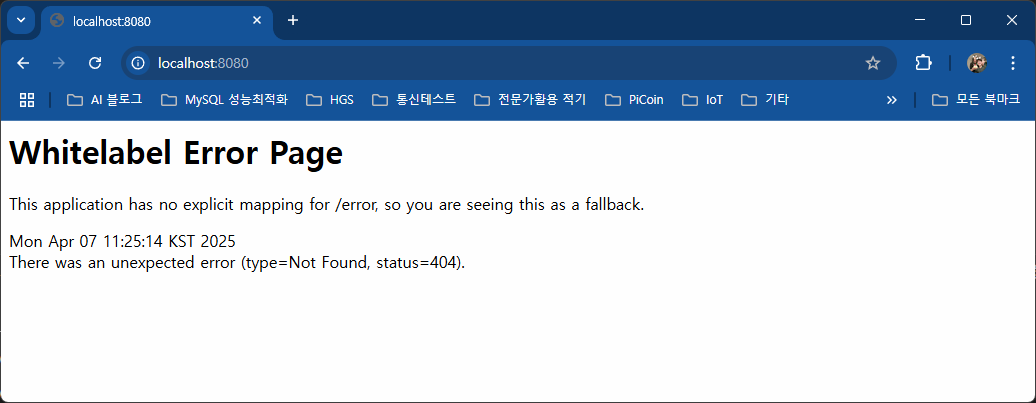
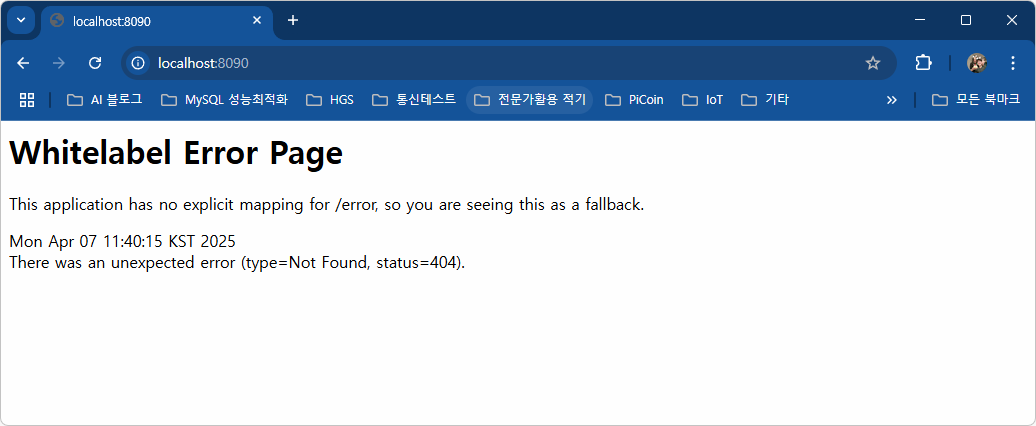
5일차 커밋

diff --git a/day05/spring03/src/main/resources/static/index.html b/day05/spring03/src/main/resources/static/index.html
@@ -1,0 +1,11 @@
+<!DOCTYPE html>
+<html lang="en">
+<head>
+    <meta charset="UTF-8">
+    <meta name="viewport" content="width=device-width, initial-scale=1.0">
+    <title>Hello SpringBoot!</title>
+</head>
+<body>
+    <h1>첫 페이지입니다</h1>
+</body>
+</html>

diff --git a/day05/spring03/src/main/java/com/pmj/spring03/controller/HelloController.java b/day05/spring03/src/main/java/com/pmj/spring03/controller/HelloController.java
@@ -1,0 +1,28 @@
+package com.pmj.spring03.controller;
+
+import org.slf4j.Logger;
+import org.slf4j.LoggerFactory;
+import org.springframework.stereotype.Controller;
+import org.springframework.web.bind.annotation.GetMapping;
+import org.springframework.web.bind.annotation.ResponseBody;
+
+@Controller // 'SpringBoot에서 컨트롤러로 동작할거야'라고 지칭해주는 주석(어노테이션)
+public class HelloController {
+
+    private final Logger logger = LoggerFactory.getLogger(this.getClass());
+
+    @GetMapping("/hello") // 웹서비스에서 사용할 길을 하나 만들거야. 그 길 이름이 /hello
+    @ResponseBody
+    public String helloSpring(){
+        logger.info("hello URL 오픈!");
+        // 문제발생시 로그를 남길때
+        logger.debug("디버그시 필요한 로그입니다");
+        logger.trace("디버그시 필요한 로그");
+
+        logger.warn("경고 표시시 나타내는 로그입니다다");
+        logger.error("오류표시 나타내는 로그입니다.");
+        
+        return "Hello SpringBoot";
+    }
+
+}

diff --git a/README.md b/README.md
@@ -285,5 +285,114 @@
     - 저장위치 선택
     - **새 창 열기** - Spring Boot 프로젝트가 루트폴더가 된 개발환경
 
+-  기본설정
+    - application.properties에 `spring.output.ansi.enabled=always` 추가
+
+- 포트번호
+    |프로토콜|포트번호|비고|
+    |:---|---:|:---|
+    |HTTP|80|웹 서버, 서비스 포트(보안취약)|
+    |HTTPS|443|SSL를 적용한 웹 서버, 서비스(보안강화)|
+    |FTP|21|웹을 통한 파일전송|
+    |TELNET|23|원격서버접속 서비스|
+    |SSH|22|보안 강화된 TELNET|
+    |SMTP|25|메일 전송서비스|
+
+- 개발용포트
+    - 포트는 중복안됨
+    - 8080포트를 사용하고 있으면 다른 포트로 변경해야함!
+    - 포트 변경 시 application.properties에 `server.port=8090` 추가
+
+- 웹브라우저 열기
+    - http://localhost:8090/ 오픈
+
+    <img src="./image/sb0006.png" width="700">
+
+- 접속위치 요청 처리
+    - 컨트롤러 생성
+        - HelloController 클래스 생성
+        - http://localhost:8090/hello
+
+    - 각 기능별로 패키지를 구분
+        - Controller, model 등
+
+- Log-back
+    - 스프링부트에 내장된 로그 모듈
+
+    - application.properties 내 로그 설정
+
+    ```groovy
+    logging.level.root = info
+    logging.file.name = /logtest.log
+    ```
+
+    ```java
+    // 클래스 내 작성성
+    private final Logger logger = LoggerFactory.getLogger(this.getClass());
+
+    // 메서드 내 사용
+    logger.info("hello URL 오픈!");
+    // 문제발생시 로그를 남길때
+    logger.debug("디버그시 필요한 로그입니다");
+    logger.trace("디버그시 필요한 로그");
+
+    logger.warn("경고 표시시 나타내는 로그입니다다");
+    logger.error("오류표시 나타내는 로그입니다.");
+    
+    ```
+- Log4J2 외부모듈 사용 권장
+
+### 스프링부트 배너(중요도없음)
+- resources 폴더에 banner.txt 생성
+- 내용 추가
+- [Spring Boot Banner Generator](https://devops.datenkollektiv.de/banner.txt/index.html)
+- 배너제너레이터로 생성한 글자 복사 banner.txt 붙여넣기
+- 서버 재시작
+- https://www.asciiart.eu/
+- https://www.baeldung.com/spring-boot-color-banner
+
+<img src="./image/sb0009.png" width="700">
+
+### 메인페이지 추가
+- resources/static/index.html 부터 시작
+
+### 스프링부트 프로젝트 구조
+<img src="./image/sb0010.png" width="300">
+
+- 각 폴더 구조
+    - .gradle ~ gradle : 그레이들, VSCode, 빌드 등에 필요한 폴더(설명필요X)
+    - `src/main/java` : 패키지와 자바 소스가 저장되는 위치
+    - com.hugo83.spring03 : 패키지. 폴더로 구성
+        - HelloController 클래스에 접근하려면
+        - com.hugo83.spring03.controller.HelloController 접근해야 함
+    - Spring03Application.java : 시작프로그램
+    - src/main/resources : 자바파일 이외 HTML, CSS, JS, 환경파일 등 리소스파일 저장되는 위치
+        - `static` : CSS, JS, 이미지 파일 저장되는 곳
+        - `templates` : 스프링부트와 연계되는 HTML 파일 저장되는 곳
+        - `application.properties` : 프로젝트 환경설정 파일. 환경변수, DB 설정
+    - src/test/java : JUnit 스프링부트 테스트도구 자바파링 저장되는 위치
+    - `build.gradle` : 그레이들 환경 파일. Groovy 기반으로 한 빌드도구. dependencies 만 잘 구성하면 됨
+    - gradlew.bat : 중간에 직접 그레이들 빌드를 할때 사용하는 배치파일.
+    - settings.gradle : 고급 그레이들 설정. 손댈일 없음
+
+### 스프링부트 어노테이션
+
+#### @SpringBootApplication
+- 스프링부트 자동구성 매커니즘 활성화
+- 어플리케이션 내 패키지에서 컴포넌트들 스캐닝
+- 설정 클래스 임포트해서 활성화, 스프링부트 실행
+
+#### @Controller
+- 컴포넌트 구체화해서 해당 클래스 IoC컨테이너 Bean으로 등록
+
+#### @GetMapping
+- Get, Post 중 Get(URL)으로 들어오는 주소를 매핑. 처리해주는 역할
+- @PostMapping, @RequestMapping 등 파악
+
+#### @ResponseBody
+- HTTP 요청의 자바객체가 처리한 body 내용을 매핑하는 역할
+- 자바의 String 문자열을 웹페이지에 렌더링.
+
+
 ## 6일차(06/26)
 

diff --git a/JAVA_BASIC.md b/JAVA_BASIC.md
@@ -553,3 +553,26 @@ public static void main(String[] args){
 - 파일읽기에 `FileInputStream`, `BufferedReader` 클래스 사용
 
 - [JAVA문법실습](./day05/spring02/src/main/java/com/pmj/spring02/Spring02Application.java)
+
+#### 어노테이션
+- 한글로 주석이지만, #, //, /**/ 소스에 영향을 미치지 않는 주석과 다름
+- 자바 소스에 추가해서 여러가지 기능을 수행하는 메타데이터 일종
+- @로 시작, JDK 1.5 이상부터 사용가능
+- 클래스 파일에 같이 포함되어 JVM 작동 시 실행됨
+- 클래스, 메서드 바로 위에서 작성. 코드와 설정을 관리 할 수 있게 도와주는 역할
+
+##### 1. @Override
+- 오버라이드를 올바르게 했는지 컴파일러 체크
+- 상속, 인터페이스 구현 시 사용
+
+##### 2. @Deprecated
+- 앞으로 다음 버전에서 삭제될 수 있음. 사용하지 말 것을 권유하는 체크
+<img src="./image/sb0011.png" width="700">
+
+- 되도록이면 이 함수는 사용하지 말 것
+
+##### 3. @FunctionalInterFace
+- 함수형 인터페이스에 붙여서, 컴파일러가 올바르게 작성되었는지 체크
+
+##### 4. @SuppressWarnings
+- 컴파일러의 경고 메시지가 표시되지 않음
